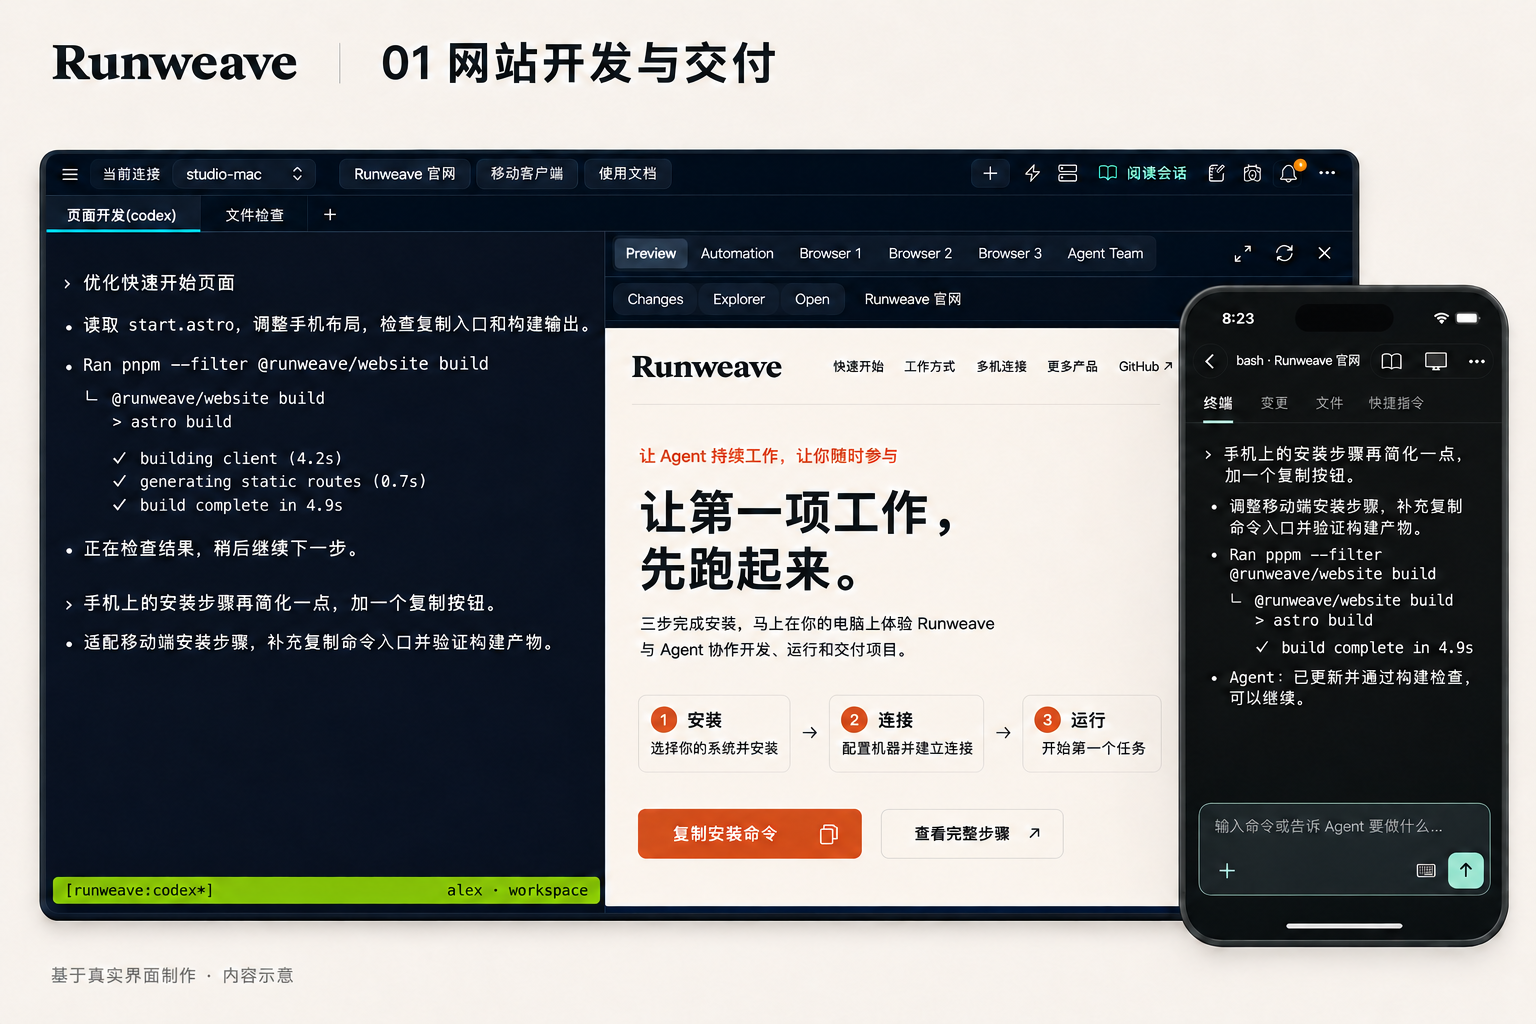
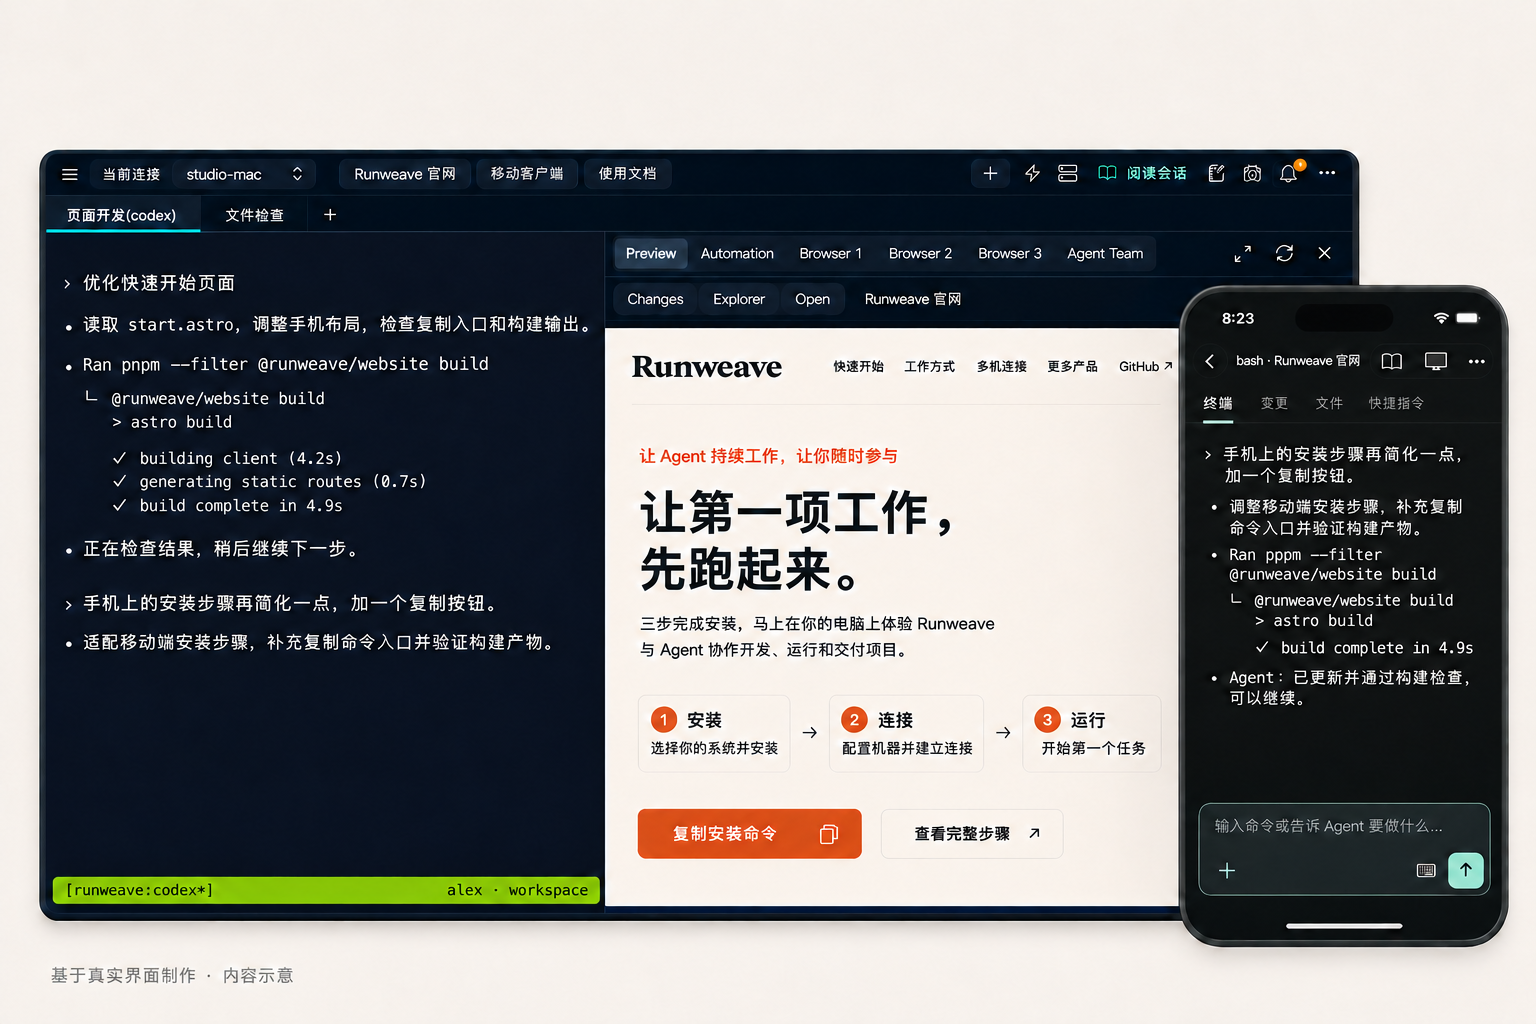
feat(website): present desktop workspace and usage options

diff --git a/packages/website/src/styles/global.css b/packages/website/src/styles/global.css
@@ -251,73 +251,78 @@ figure {
   padding-top: 8px;
   border-top: 1px solid #d8d4cb;
 }
-.machines {
-  display: grid;
-  grid-template-columns: 1fr 1.65fr;
-  gap: 60px;
-  align-items: center;
+.usage {
   padding-block: 55px;
 }
-.machines-copy > p:last-child {
-  font-size: 15px;
+.usage .section-kicker {
+  color: var(--accent);
+  font-size: 14px;
+  font-weight: 600;
+  letter-spacing: 0;
+}
+.supported-platforms,
+.supported-platforms ul,
+.supported-platforms li {
+  display: flex;
+  align-items: center;
+}
+.supported-platforms {
+  gap: 18px;
   margin-top: 20px;
-  color: #474b43;
+  color: var(--muted);
+  font-size: 16px;
 }
-.machine-diagram ul {
+.supported-platforms ul {
   list-style: none;
-  display: grid;
-  grid-template-columns: repeat(3, minmax(0, 1fr));
-  padding: 0;
+  flex-wrap: wrap;
+  gap: 24px;
   margin: 0;
+  padding: 0;
 }
-.machine-diagram li {
-  text-align: center;
-  padding: 10px 14px;
-  border-right: 1px solid var(--rule);
+.supported-platforms li {
+  gap: 8px;
 }
-.machine-diagram li:last-child {
-  border: 0;
+.supported-platforms svg {
+  width: 22px;
+  height: 22px;
 }
-.machine-diagram svg {
-  margin-bottom: 12px;
+.usage-options {
+  display: grid;
+  grid-template-columns: repeat(2, minmax(0, 1fr));
+  margin-top: 38px;
 }
-.machine-diagram h3 {
-  font-size: 19px;
-  letter-spacing: -0.02em;
+.usage-option {
+  display: flex;
+  align-items: flex-start;
+  gap: 26px;
+  padding: 10px 36px 10px 0;
 }
-.machine-diagram h3 span {
-  font-size: 13px;
-  font-weight: 400;
-  display: block;
-  margin-top: 5px;
+.usage-option + .usage-option {
+  border-left: 1px solid var(--rule);
+  padding-left: 36px;
+  padding-right: 0;
 }
-.machine-diagram li p {
-  font-size: 12px;
+.usage-option > svg {
+  width: 76px;
+  height: 76px;
+  flex-shrink: 0;
+}
+.usage-option h3 {
+  font-size: 24px;
+}
+.usage-option p {
   color: var(--muted);
-  margin-top: 9px;
+  font-size: 15px;
+  margin-top: 8px;
 }
-.connection-line {
-  border: 1px solid #b6b7ac;
-  border-top: 0;
-  border-radius: 0 0 8px 8px;
-  height: 20px;
-  width: 72%;
-  margin: 25px auto 0;
-  position: relative;
-}
-.connection-line:after {
-  content: "";
-  position: absolute;
-  height: 15px;
-  border-left: 1px solid #b6b7ac;
-  top: 100%;
-  left: 50%;
-}
-.diagram-caption {
-  text-align: center;
-  font-size: 12px;
-  margin-top: 23px;
-  color: var(--muted);
+.usage-option a {
+  display: inline-flex;
+  align-items: center;
+  gap: 8px;
+  margin-top: 12px;
+  color: var(--accent);
+  text-decoration: underline;
+  text-underline-offset: 4px;
 }
 .products {
   padding-bottom: 0;

diff --git a/packages/website/src/styles/responsive.css b/packages/website/src/styles/responsive.css
@@ -22,12 +22,16 @@
   .steps article > p {
     min-height: 108px;
   }
-  .machines {
-    gap: 30px;
-    grid-template-columns: 1fr 1.4fr;
+  .usage-option {
+    gap: 18px;
+    padding-right: 24px;
   }
-  .machine-diagram li {
-    padding-inline: 8px;
+  .usage-option + .usage-option {
+    padding-left: 24px;
+  }
+  .usage-option > svg {
+    width: 60px;
+    height: 60px;
   }
   .product-row {
     grid-template-columns: 1.2fr 1.5fr 1fr 24px;
@@ -152,30 +156,34 @@
     margin-top: 18px;
     min-height: 60px;
   }
-  .machines {
-    display: block;
-  }
-  .machines-copy > p:last-child {
+  .supported-platforms {
+    gap: 12px;
     font-size: 14px;
   }
-  .machine-diagram {
-    margin-top: 30px;
+  .supported-platforms ul {
+    gap: 16px;
   }
-  .machine-diagram h3 {
-    font-size: 16px;
+  .supported-platforms li {
+    gap: 6px;
   }
-  .machine-diagram h3 span {
-    font-size: 11px;
+  .supported-platforms svg {
+    width: 18px;
+    height: 18px;
   }
-  .machine-diagram li p {
-    font-size: 10px;
+  .usage-options {
+    grid-template-columns: 1fr;
+    margin-top: 28px;
   }
-  .machine-diagram svg {
-    width: 30px;
-    height: 30px;
+  .usage-option {
+    padding: 0 0 26px;
   }
-  .connection-line {
-    margin-top: 20px;
+  .usage-option + .usage-option {
+    border-left: 0;
+    border-top: 1px solid var(--rule);
+    padding: 26px 0 0;
+  }
+  .usage-option h3 {
+    font-size: 22px;
   }
   .product-row {
     grid-template-columns: 1fr 35px;

diff --git a/packages/website/src/pages/llms.txt.ts b/packages/website/src/pages/llms.txt.ts
@@ -1,6 +1,6 @@
 export function GET() {
   const site = import.meta.env.SITE;
-  const text = `# Runweave\n\nLocal-first AI CLI workspace. Agents run on your own machines; connect from desktop, web or phone.\n\n## Installation and first task\n- [Quick start](${new URL("/start/", site)}): Human-readable installation and first-use steps.\n- [Agent guide](${new URL("/agent-guide.txt", site)}): Plain-text commands, prerequisites, credential handling and verification.\n- [Source](https://github.com/jackshen3102/run-weave): Source and authoritative platform documentation.\n`;
+  const text = `# Runweave\n\nLocal-first AI CLI workspace for organizing projects, terminals, and agents on your computer. Connect Mac, Windows, and Linux backends; mobile access is also available.\n\n## Installation and first task\n- [Quick start](${new URL("/start/", site)}): Human-readable installation and first-use steps.\n- [Agent guide](${new URL("/agent-guide.txt", site)}): Plain-text commands, prerequisites, credential handling and verification.\n- [Source](https://github.com/jackshen3102/run-weave): Source and authoritative platform documentation.\n`;
   return new Response(text, {
     headers: { "Content-Type": "text/plain; charset=utf-8" },
   });

diff --git a/packages/website/src/data/home.ts b/packages/website/src/data/home.ts
@@ -1,15 +1,10 @@
 export const repository = "https://github.com/jackshen3102/run-weave";
 export const guide = "/start/";
-export const machines = [
-  { name: "Mac", role: "日常工作", detail: "浏览器与本地工具", icon: "laptop" },
-  { name: "Linux", role: "开发服务器", detail: "项目与长任务", icon: "server" },
-  {
-    name: "Windows",
-    role: "工作机",
-    detail: "专属应用与环境",
-    icon: "windows",
-  },
-];
+export const platforms = [
+  { name: "macOS", icon: "macos" },
+  { name: "Windows", icon: "windows" },
+  { name: "Linux", icon: "linux" },
+] as const;
 export const products = [
   {
     name: "随记",
@@ -18,13 +13,13 @@ export const products = [
     kind: "notes",
   },
   {
-    name: "ScreenJournal",
+    name: "屏幕日记",
     description: "记录屏幕活动，回看当时的现场。",
     path: "packages/screen-recording-macos/README.md",
     kind: "journal",
   },
   {
-    name: "RemoteDesk",
+    name: "远程桌面",
     description: "从手机连接 Mac，直接操作桌面。",
     path: "packages/remote-desktop-host/README.md",
     kind: "remote",

diff --git a/packages/website/src/styles/pages.css b/packages/website/src/styles/pages.css
@@ -1,7 +1,12 @@
 .hero-image-link {
   display: block;
+  aspect-ratio: 1536 / 894;
   border-radius: 8px;
   overflow: hidden;
+}
+.hero-image-link img {
+  /* Exclude the 130px empty header band from the 1536px-wide artwork. */
+  margin-top: -8.463542%;
 }
 .hero-image-link:focus-visible {
   outline: 3px solid var(--accent);
@@ -9,20 +14,6 @@
 }
 .hero-example figcaption {
   padding-right: 0;
-}
-
-.workflow-example {
-  margin-top: 12px;
-  color: var(--muted);
-  font-size: 13px;
-}
-.result-sample a {
-  text-decoration: underline;
-  text-underline-offset: 4px;
-  min-height: 44px;
-  display: inline-flex;
-  align-items: center;
-  gap: 12px;
 }
 
 .start-page {

diff --git a/packages/website/README.md b/packages/website/README.md
@@ -27,8 +27,8 @@ pnpm --filter @runweave/website preview --host 127.0.0.1 --port 4321
 - [首页数据](src/data/home.ts)：GitHub、中文使用指南和三个产品文档入口。
 - [首页](src/pages/index.astro)：页面区域装配；各区域的真实正文在 `src/components/`。
 - [全局样式](src/styles/global.css)：米白背景、橙色重点、桌面与手机布局。
-- 首屏采用用户选定的第一张修订稿“网站开发与交付”：[hero-website.png](src/assets/hero-website.png)。来源为 `artifacts/website-hero-options/01-website-v2.png`，以真实桌面和 iOS 界面为参照，经 AI 编辑制作。横向项目标签、终端排版与产品结构对齐；电脑执行页面开发、手机补充安装步骤要求，均为同一示例任务的内容示意，不是实际执行或跨端验收证据。图片保留完整比例，转换为响应式 WebP；点击可查看 1536px 大图。
-- 文件附件流程仍使用独立的历史验证案例 `rw-file-paste-check`：[桌面 Beta](src/assets/desktop-real.png) 来自 `artifacts/file-paste-desktop-beta.png`；[iOS 附件草稿](src/assets/ios-real.png) 来自 `artifacts/mobile-file-attachment-draft.png`；[iOS 附件输出结果](src/assets/ios-result.png) 来自 `artifacts/mobile-file-attachment-sent.png`。这不是首屏“网站开发”示例的实际运行记录，也不宣称同一 Agent 自动完成或本轮重新采集手机素材。
+- 首屏采用用户选定的第一张修订稿“网站开发与交付”：[hero-website.png](src/assets/hero-website.png)。来源为 `artifacts/website-hero-options/01-website-v2.png`，以真实桌面和 iOS 界面为参照，经 AI 编辑制作。横向项目标签、终端排版与产品结构对齐；电脑执行页面开发、手机补充安装步骤要求，均为同一示例任务的内容示意，不是实际执行或跨端验收证据。素材已移除顶部“Runweave｜01 网站开发与交付”标题；首页显示时收起顶部 130px 留白，保留完整产品画面和底部示意标注。素材转换为响应式 WebP；点击可查看无标题的 1536px 大图。
+- 官网围绕电脑上的项目、终端与 Agent 工作台展开，多后端连接为主要能力，手机作为补充入口。已删除“工作方式”三步区域及对应导航；不再用离开电脑、通勤或文件附件测试作为首页价值叙事。原文件附件截图仅作历史素材保留，不在当前首页引用。
 - 首屏隐私与内容检查：仅含公开官网、示例项目、`studio-mac` 与 `alex · workspace` 示例名称、构建命令及示意输出；无凭据、内部网址或用户业务材料。无 Beta 标记、公司名称、默认项目和虚构下拉菜单。
 - 三个配套产品的小图是 CSS 绘制的装饰示意，均从可访问树中移除；名称与介绍是 HTML。
 - [分享图](public/og.png) 使用同一真实桌面 Beta 截图，品牌图标与 [favicon](public/logo.png) 共用桌面端图标，由 `electron/resources/icons/icon-preview.png` 等比缩小为 128 × 128 PNG。
@@ -129,7 +129,7 @@ ssh ubuntu@18.140.158.81 \
 
 切换后按本节列出的站点、资源、缓存与分享路径检查，不以命令返回值替代线上验证。脚本只恢复静态版本，不改 DNS、TLS、Nginx 配置或 Clarity 项目。当前保留多个正式域名版本；首屏更新发布已使用 `--apply` 原子切换到新版本，旧版本仅执行只读回滚预检，未执行在线回滚演练。
 
-纯版本切换无需重启服务。当前正式版本为 `20261112T043238Z-06aaad89`，保留上一正式版 `20261112T030802Z-e2570f71` 及临时版本 `20261112T021514Z-91f82e46`。临时版本的 SEO 使用 share 域名，不能仅切换版本就声称完成正式域名回退。若要撤销本次域名迁移，先备份当时配置，恢复本次部署备份中的两个 Nginx 配置和 previous-release 指针，再 `sudo nginx -t && sudo systemctl reload nginx`；此操作会恢复临时 share 入口，必须连同域名与 Clarity 变更一起判断。未实际执行在线回滚演练。
+纯版本切换无需重启服务。当前正式版本为 `20261112T095754Z-f23370c0`，保留上一正式版 `20261112T030802Z-e2570f71` 及临时版本 `20261112T021514Z-91f82e46`。临时版本的 SEO 使用 share 域名，不能仅切换版本就声称完成正式域名回退。若要撤销本次域名迁移，先备份当时配置，恢复本次部署备份中的两个 Nginx 配置和 previous-release 指针，再 `sudo nginx -t && sudo systemctl reload nginx`；此操作会恢复临时 share 入口，必须连同域名与 Clarity 变更一起判断。未实际执行在线回滚演练。
 
 2026-11-12 迁移核对：新域名 HTTPS 正常，证书 SAN 与域名匹配；19 个线上文件逐一匹配本次 manifest，包括按 404 返回的内部页面；正式 SEO 与缓存头核对通过。share 根路径恢复 404、原分享路由仍由原服务响应。当前版本和旧版本均保留，迁移前配置备份实际存在。Clarity 后台网站 URL 已保存并刷新读回为正式入口。Runweave Browser 实际打开新域名，点击首页 CTA 到教程并成功复制 AI 指令；390px 首页和教程无横向溢出，图片实际加载，控制台无错误。正式页各一个 Clarity tag，collect POST 返回 204；新域名的云端录制回放未单独核验。
 
@@ -146,3 +146,23 @@ ssh ubuntu@18.140.158.81 \
 检查结果：lint 通过，隔离源码 `astro check` 为 0 错误、0 警告，production 构建通过（依赖 Zod 注释有 Rollup 提示，不影响输出）。最初以 macOS `/tmp` 别名作为 Astro root 导致虚拟模块路径不一致；改用实际 `/private/tmp` 路径后构建通过，失败产物未发布。16 个线上文件与 manifest 逐一匹配，HTML no-cache、哈希资源 immutable，正式 canonical 与首屏内容正确，未知路径 404。响应式 WebP 为 480/720/1080/1536px，完整大图约 101 KB。
 
 Runweave Browser 已实际检查同一生产产物的本地 1440px 与 390px 布局：图片加载成功、页面无横向溢出。正式首页 1440px 的图片加载、按钮无遮挡、大图点击与教程入口已通过；点击大图可打开 1536 × 1024 图片。正式页面调用 resize 后实际 innerWidth 仍为 1440，线上 390px 专项未通过工具执行，不能把本地宽度检查称为线上手机或真机验收。截图接口在本机与正式页均于 5 秒超时，未取得本轮网页截图；DOM 与交互证据保存在 `artifacts/website-hero-live-*.json`，HTTP 证据为 `artifacts/website-hero-live-checks.json`。禁用 JavaScript 与原生 200% 缩放仍保持上节阻塞状态。
+
+### 恢复静态展示（2026-11-12）
+
+用户撤回视频方案后，已恢复提交 `f23370c0` 的静态工作方式区域，首屏仍使用选定的第一张修订稿。视频组件、播放逻辑和视频资产已从网站源码与生产产物中移除；原视频及生成脚本仅归档到本机 `artifacts/website-workflow-video/reverted-source/`，不随网站发布。
+
+当前发布 `20261112T065014Z-f23370c0`，独立 production 输出 `/private/tmp/runweave-website-static-restored-dist`。lint、astro check 与构建通过；16 个线上文件与 manifest 一致，首页无 video 元素或 MP4 引用，原首屏图片与静态流程均已恢复。服务器对应 deployments 目录保留 manifest、previous-release 和 activation.json；被撤回的视频版 `20261112T064431Z-f23370c0` 仅作历史保留，不应作为默认回退目标。HTTP 核对记录为 `artifacts/website-static-restored-checks.json`。
+
+### 电脑工作台定位（2026-11-12）
+
+版本 `20261112T065723Z-f23370c0` 删除工作方式区域、组件和导航链接；首页、页尾、多机连接、教程入口及 SEO 文案统一强调电脑上的项目、终端、Agent 与多后端工作。手机连接仍可用，作为补充入口介绍；保留用户选定的首屏图。
+
+lint、astro check、production build 通过。15 个线上文件 SHA-256 与 manifest 一致，首页不含 workflow 锚点、视频或“离开／路上”宣传。Runweave Browser 已核对 1440px/390px 首页无横向溢出、原图加载、页内锚点无失效目标，快速开始导航实际可用。部署目录保存 manifest、previous-release、activation.json，上一版 `20261112T065014Z-f23370c0` 保留。本机证据为 `artifacts/website-desktop-focus-checks.json` 与同前缀桌面／手机宽度截图；不代替原生手机、禁用 JavaScript 或 200% 原生缩放验收。
+
+### 首屏图片去标题（2026-11-12）
+
+版本 `20261112T093641Z-f23370c0` 去掉素材顶部外置标题，页面通过固定比例容器收起 130px 留白。终端、浏览器预览、手机及底部示意说明保留；源素材为本轮图片编辑结果 `exec-89d37faa-bd18-41d2-844b-282616a009d4.png`，原图仍在 `artifacts/website-hero-options/01-website-v2.png`。lint、astro check 与生产构建通过，15 个线上文件逐一匹配 manifest。Runweave Browser 已核对 1440px/390px 显示及图片加载，截图为 `artifacts/website-no-heading-desktop.png`、`artifacts/website-no-heading-mobile.png`。上一版 `20261112T065723Z-f23370c0` 完整保留；本轮 manifest、activation 和 previous-release 位于对应服务器 deployments 目录。
+
+### 配套工具文案（2026-11-12）
+
+版本 `20261112T095754Z-f23370c0` 将“更多产品”栏目及导航改为“配套工具”，标题明确为“记录想法、回看屏幕、远程操作电脑”。以当前线上版 `20261112T093641Z-f23370c0` 的已校验源码为基线隔离构建，未发布工作区另一组使用方式改动；生产文件仅 `index.html` 发生变化。lint、astro check、build 通过，线上 HTML 哈希和文案已核对，1440px/390px Browser 布局无横向溢出，证据见 `artifacts/website-product-copy-*`。服务器对应 deployments 目录保留 manifest、previous-release 和 activation.json。
